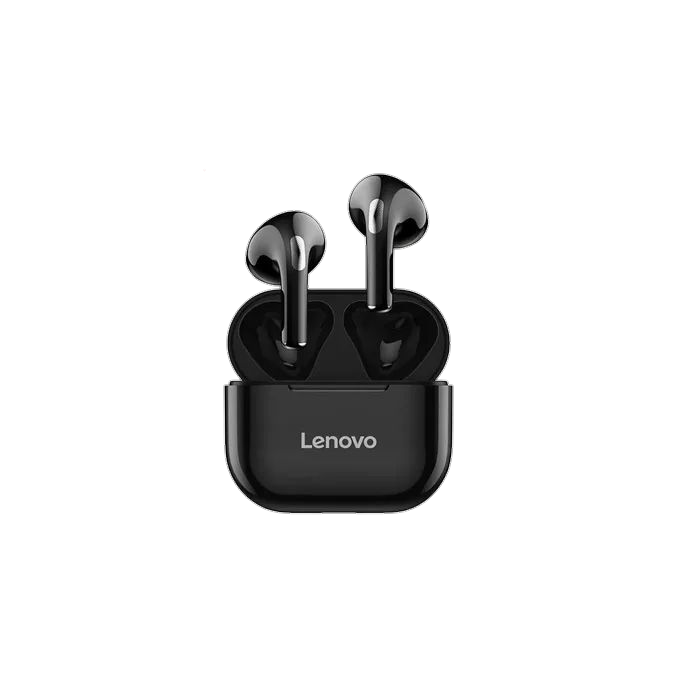
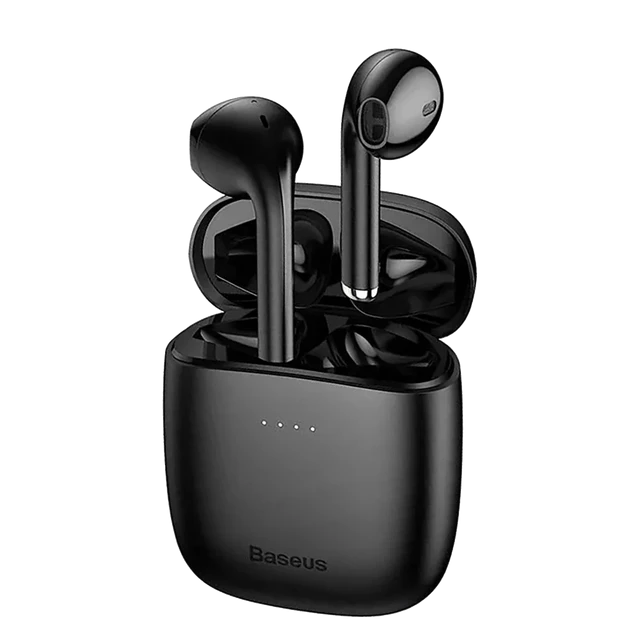
feat: new earphone added and removed old devices

Changed region(s): [[0.25, 0.0625, 0.75, 0.9688]]

diff --git a/src/pages/Setup/Setup.js b/src/pages/Setup/Setup.js
@@ -15,11 +15,10 @@ function Setup() {
             <SetupCard src="laptop" social="Laptop" user="Lenovo L340 Gaming" url="https://www.lenovo.com/br/pt/laptops/ideapad/ideapad-gaming-laptops/IdeaPad-L340-15IRH-Gaming/p/88IPL301161" />
             <SetupCard src="headset" social="Headset" user="Razer Kraken Lite" url="https://www.amazon.com.br/gp/product/B07XC936P8/ref=ppx_yo_dt_b_asin_title_o01_s00?ie=UTF8&psc=1" />
             <SetupCard src="headphone" social="Headphone" user="Philips UH202 BT" url="https://www.amazon.com.br/gp/product/B07YNG2L67/ref=ppx_yo_dt_b_asin_title_o00_s00?ie=UTF8&th=1" />
-            <SetupCard src="earphone2" social="Earpods 1" user="Lenovo Thinkplus LP40" url="https://pt.aliexpress.com/item/1005004866196078.html?spm=a2g0o.order_list.order_list_main.5.6d4bcaa4daN1Nt&gatewayAdapt=glo2bra" />
-            <SetupCard src="earphone1" social="Earpods 2" user="Baseus Encok W04" url="https://www.amazon.com.br/gp/product/B01LYIY2HG/ref=ppx_yo_dt_b_asin_title_o00_s00?ie=UTF8&psc=1" />
-            <SetupCard src="mouse2" social="Mouse 1" user="Baseus F01B Wireless" url="https://pt.aliexpress.com/item/1005005847298347.html?spm=a2g0o.order_list.order_list_main.6.649ecaa4iWc5Ig&gatewayAdapt=glo2bra" />
-            <SetupCard src="mouse1" social="Mouse 2" user="Logitech M170 Wireless" url="https://www.amazon.com.br/Mouse-Nanoreceptor-Inclusa-Logitech-Mouses/dp/B074L9L5KZ?th=1" />
-            <SetupCard src="mouse3" social="Mouse 3" user="Dell MS3320p" url="https://pt.aliexpress.com/i/1005002494212473.html" />
+            <SetupCard src="earphone1" social="Earpods 1" user="Lenovo Thinkplus XT88" url="https://pt.aliexpress.com/item/1005004866196078.html?spm=a2g0o.order_list.order_list_main.5.6d4bcaa4daN1Nt&gatewayAdapt=glo2bra" />
+            <SetupCard src="earphone2" social="Earpods 2" user="Baseus Encok W04" url="https://www.amazon.com.br/gp/product/B01LYIY2HG/ref=ppx_yo_dt_b_asin_title_o00_s00?ie=UTF8&psc=1" />
+            <SetupCard src="mouse1" social="Mouse 1" user="Baseus F01B Wireless" url="https://pt.aliexpress.com/item/1005005847298347.html?spm=a2g0o.order_list.order_list_main.6.649ecaa4iWc5Ig&gatewayAdapt=glo2bra" />
+            <SetupCard src="mouse2" social="Mouse 2" user="Dell MS3320p" url="https://pt.aliexpress.com/i/1005002494212473.html" />
             <SetupCard src="mousepad" social="Mousepad" user="Fortrek G Speed Medium" url="https://www.amazon.com.br/gp/product/B0765YY6TM/ref=ppx_yo_dt_b_asin_title_o01_s00?ie=UTF8&th=1" />
           </div>
         </div>

diff --git a/src/components/SetupCard/SetupCard.js b/src/components/SetupCard/SetupCard.js
@@ -11,7 +11,6 @@ import Earpods1 from '../../images/earphone1.png'
 import Earpods2 from '../../images/earphone2.png'
 import Mouse1 from '../../images/mouse1.png'
 import Mouse2 from '../../images/mouse2.png'
-import Mouse3 from '../../images/mouse3.png'
 import Mousepad from '../../images/mousepad.png'
 import CodigoLimpo from '../../images/codigo.png'
 import Arquitetura from '../../images/arquitetura.png'
